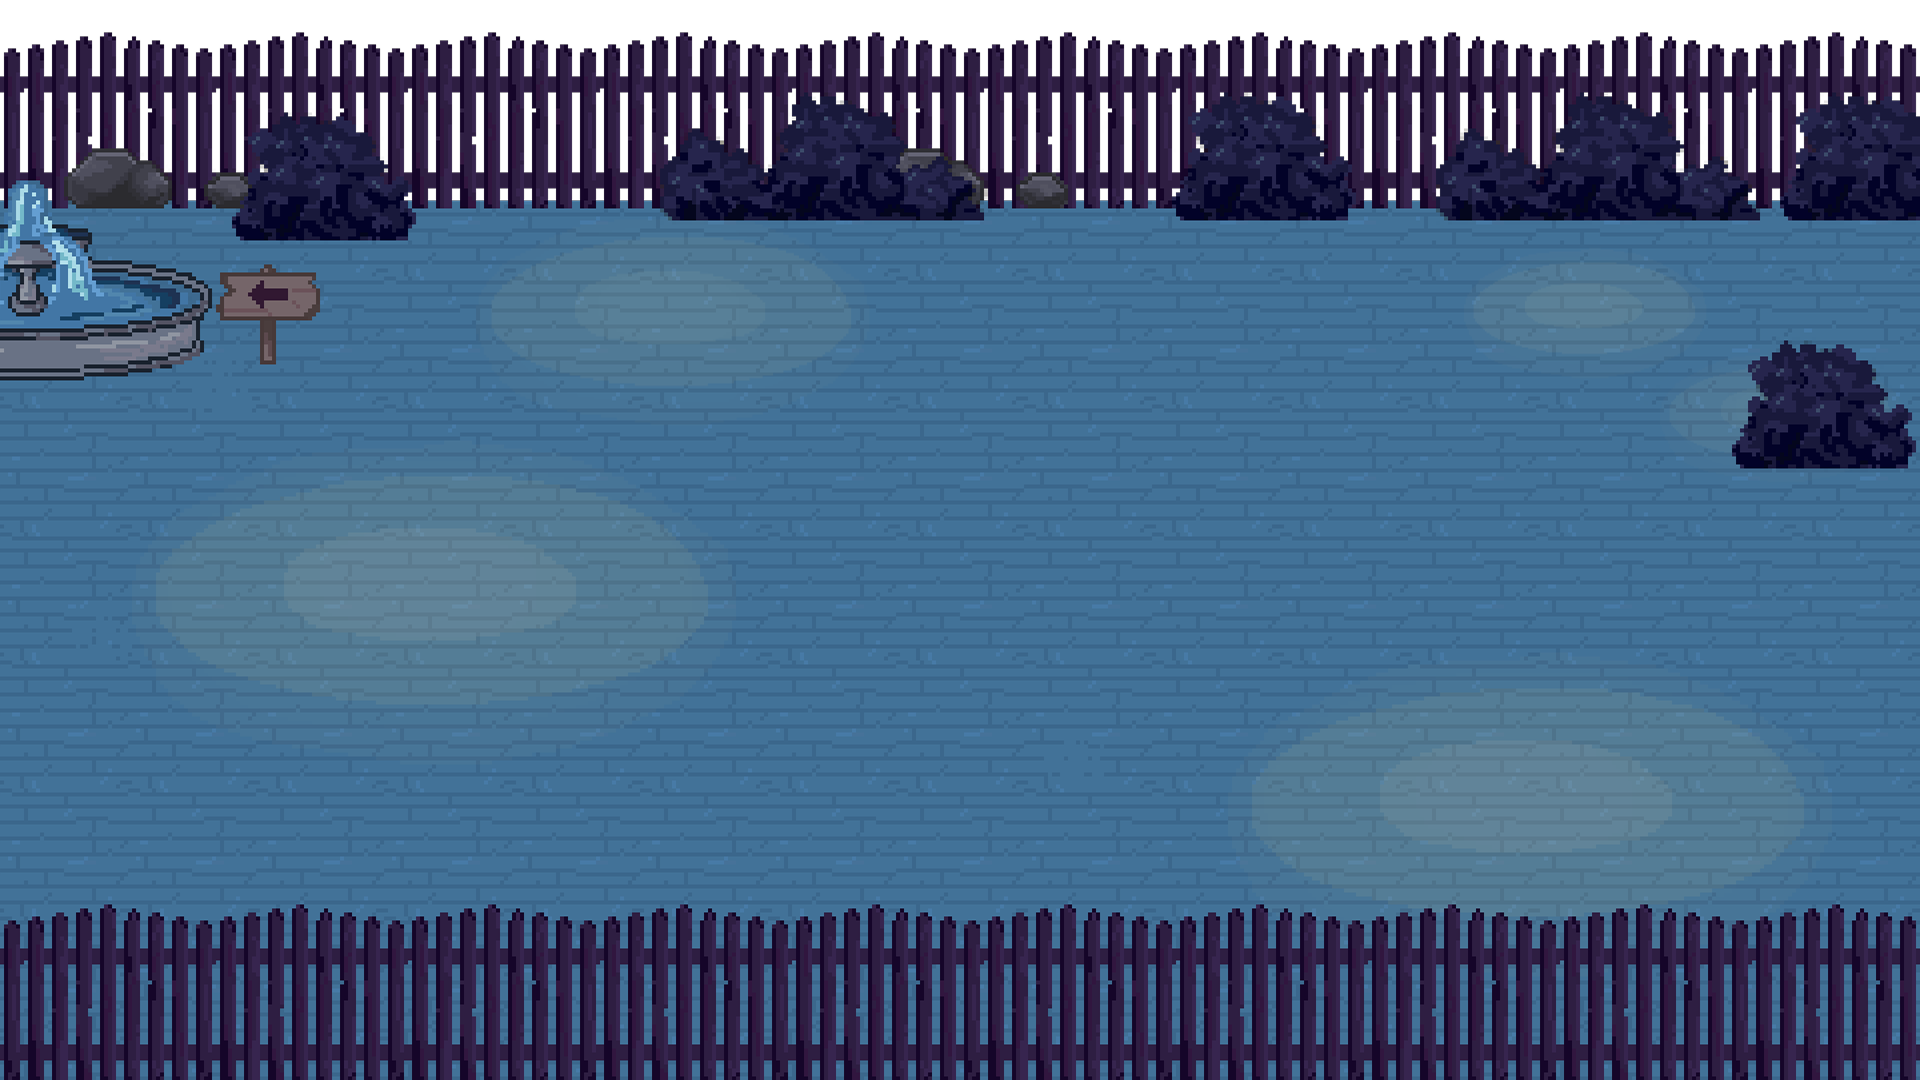
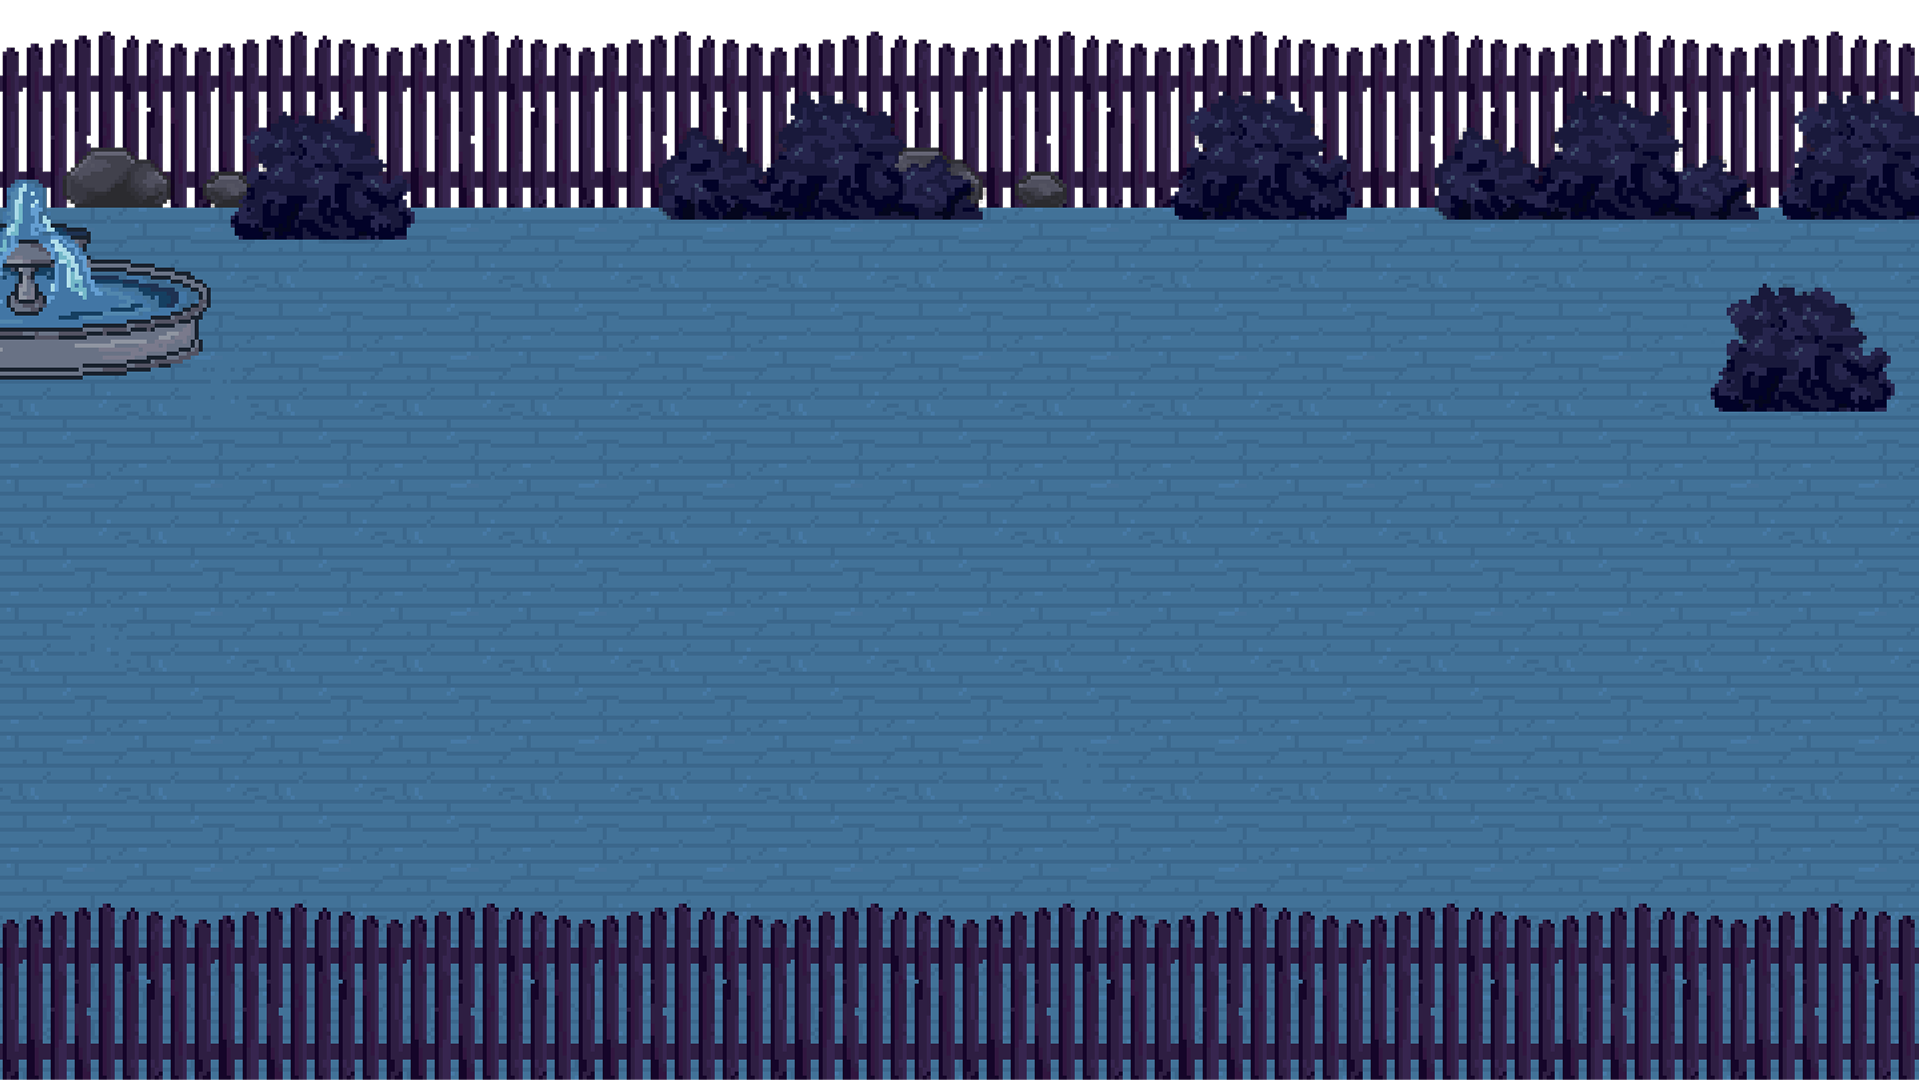
edit: vyhra, sipky, pozadi

diff --git a/usagainsttheodds.client/src/Components/Pausemenu/PauseMenuWindow.tsx b/usagainsttheodds.client/src/Components/Pausemenu/PauseMenuWindow.tsx
@@ -15,8 +15,6 @@ const Modal: React.FC<ModalProps> = ({ children }) => {
   const { setIsPauseMenuOpen } = useOwnOutlet();
   const { isMusicMuted, setIsMusicMuted, isSfxMuted, setIsSfxMuted, musicVolume, setMusicVolume, sfxVolume, setSfxVolume } = useSound();
 
-  const {setPlayer, setGirlfriend, setTickets, setRelationshipValue, addNotification} = useOwnOutlet();
-
 
   return createPortal(
     <div className={styles.modalBackdrop} onClick={() => setIsPauseMenuOpen(false)}>
@@ -51,18 +49,7 @@ const Modal: React.FC<ModalProps> = ({ children }) => {
           
           
         </div>
-        <div className={styles.modalStats}>
-                    <button onClick={() => setTickets(0)}>Tickets 0</button>
-                    <button onClick={() => setRelationshipValue(0)}>Relationship 0</button>
-                    <button onClick={() => setPlayer(prev => ({ ...prev, hunger: 0 }))}>Player hunger 0</button>
-                    <button onClick={() => setPlayer(prev => ({ ...prev, thirst: 0 }))}>Player thirst 0</button>
-                    <button onClick={() => setPlayer(prev => ({ ...prev, drunkenness: 100 }))}>Player drunkenness 100</button>
-                    <button onClick={() => setGirlfriend(prev => ({ ...prev, hunger: 0 }))}>Girlfriend hunger 0</button>
-                    <button onClick={() => setGirlfriend(prev => ({ ...prev, thirst: 0 }))}>Girlfriend thirst 0</button>
-                    <button onClick={() => setGirlfriend(prev => ({ ...prev, drunkenness: 100 }))}>Girlfriend drunkenness 100</button>
-                  <button onClick={() => addNotification("New notification", "/images/Avatars/girlfriendAvatar.png")}>add notification</button>
-                  <button onClick={() => setTickets(12000)}>ss</button>
-        </div>
+      
         <div className={styles.modalButtons}>
           <ResetButton className="buttonIntro buttonRules" isIngame={true} navigateTo="/" text="Reset Game" />
           <button className="buttonIntro buttonRules" onClick={() => setIsPauseMenuOpen(false)}>Return to game</button>

diff --git a/usagainsttheodds.client/src/assets/styles/Homepage.module.css b/usagainsttheodds.client/src/assets/styles/Homepage.module.css
@@ -271,6 +271,33 @@
     right: 15vw;
 }
 
+.arrow {
+    position: absolute;
+    top: 25vh;
+
+    z-index: 15;
+
+    background-size: contain;
+    background-color: transparent;
+    background-repeat: no-repeat;
+    background-position: center;
+
+    height: 10vh;
+    width: 5vw;
+
+    cursor: pointer;
+}
+
+.arrowRight {
+    background-image: url("/images/Homepage/Map/ArrowR.png");
+    right: 10vw;
+}
+
+.arrowLeft {
+    background-image: url("/images/Homepage/Map/ArrowL.png");
+    left: 11vw;
+}
+
 @keyframes long-walk {
     0% {
         transform: translateX(0) scaleX(1) translateY(0);

diff --git a/usagainsttheodds.client/src/Pages/HomePage1.tsx b/usagainsttheodds.client/src/Pages/HomePage1.tsx
@@ -47,6 +47,7 @@ const HomePage1 = () => {
           <span className={`${styles.lamp} ${styles.lamp2}`} />
           <span className={`${styles.trash} ${styles.trash1}`} />
           <span className={`${styles.trash} ${styles.trash2}`} />
+          <button className={`${styles.arrow} ${styles.arrowRight}`} onClick={() => navigate("/game/right")}/>
         </div>
 
       </div>

diff --git a/usagainsttheodds.client/src/Pages/HomePage2.tsx b/usagainsttheodds.client/src/Pages/HomePage2.tsx
@@ -52,6 +52,7 @@ const HomePage2 = () => {
           <span className={`${styles.lamp} ${styles.lamp4}`} />
           <span className={`${styles.trash} ${styles.trash3}`} />
           <span className={`${styles.trash} ${styles.trash4}`} />
+          <button className={`${styles.arrow} ${styles.arrowLeft}`} onClick={() => navigate("/game")}/>
         </div>
 
       </div>

diff --git a/usagainsttheodds.client/src/assets/styles/components/MinigameP.module.css b/usagainsttheodds.client/src/assets/styles/components/MinigameP.module.css
@@ -47,7 +47,3 @@ input::-webkit-inner-spin-button {
   -webkit-appearance: none;
   margin: 0;
 }
-
-input[type=number] {
-  -moz-appearance: textfield;
-}
